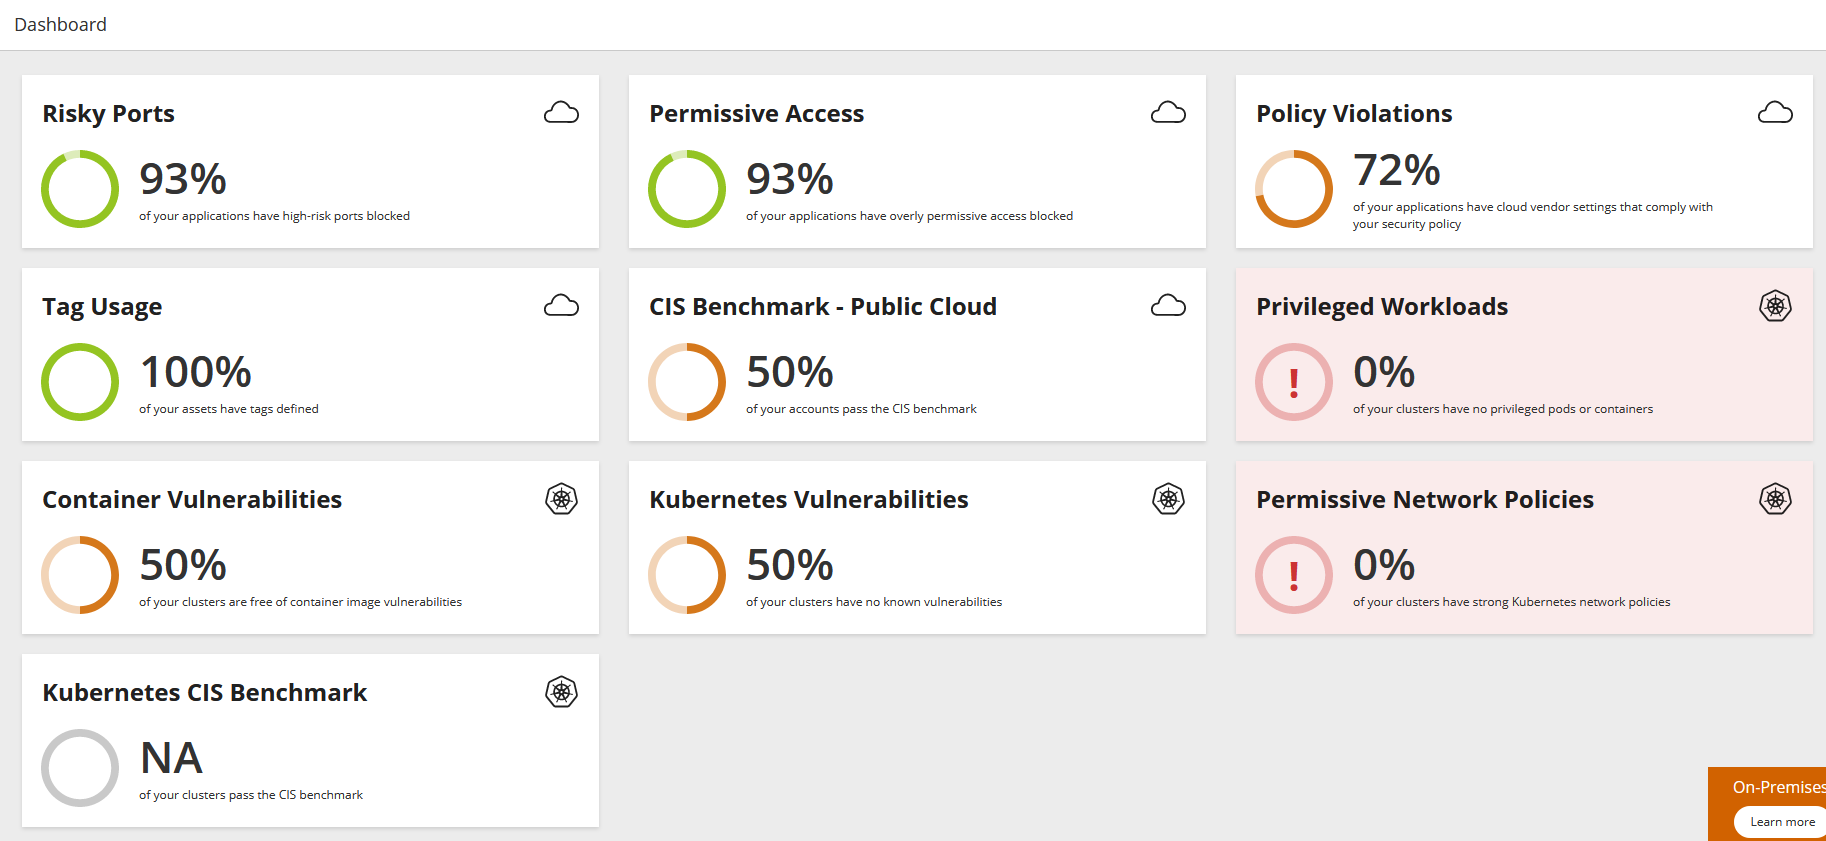
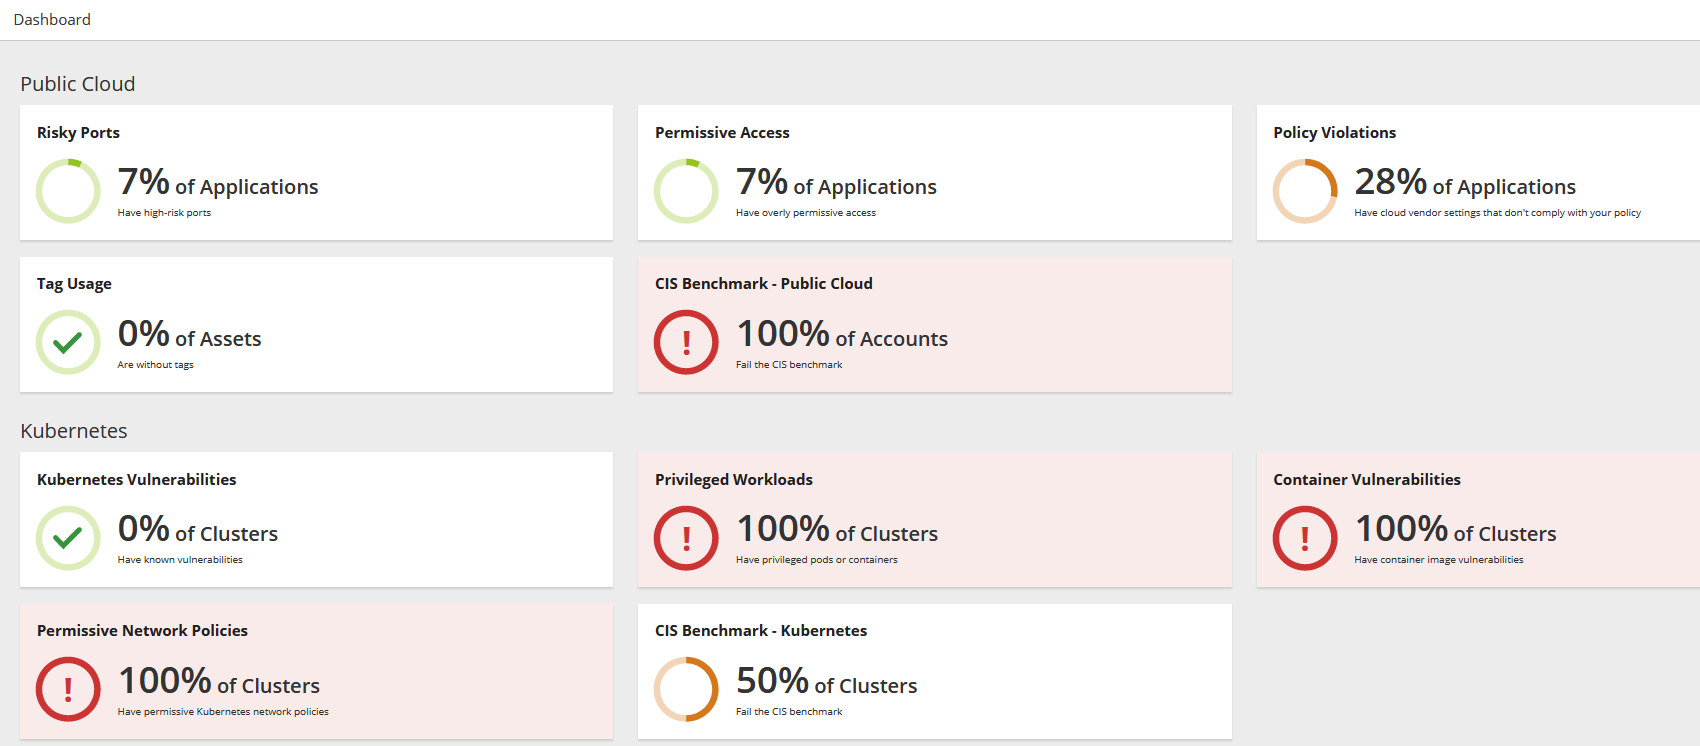
fix / dev / remove egress, change dashboard

diff --git a/Content/SecureCloud/Dashboard.htm b/Content/SecureCloud/Dashboard.htm
@@ -22,15 +22,16 @@
         <p class="h3"><a name="publiccloud"></a>Public Cloud Detail</p>
         <p>Click on a <MadCap:variable name="local.Widget" /> to drill down to the relevant detail.</p>
         <p class="h4">Risky Ports</p>
-        <p>The Risky Ports <MadCap:variable name="local.Widget" /> shows the state of your public cloud environment with respect to high-risk ports - the fewer   high-risk ports you have, the higher the percentage. Click on the <MadCap:variable name="local.Widget" /> to display all <a href="CloudRiskyPorts-by-App.htm">applications</a> that allow access through these ports.</p>
+        <p>The Risky Ports <MadCap:variable name="local.Widget" /> <MadCap:snippetText src="Risk_Posed.flsnp" /> high-risk ports, <MadCap:snippetText src="PercentageOfApplications.flsnp" />.  Click on the <MadCap:variable name="local.Widget" /> to display <MadCap:xref href="CloudRiskyPorts-by-App.htm">[%=local.RiskyPorts (heading)%] by Application</MadCap:xref>.</p>
         <p style="font-weight: bold;">What are risky ports? </p>
         <MadCap:snippetBlock src="WhatIsRiskyPorts.flsnp" />
         <p><span class="SpecialBold">Recommended best practice:</span>&#160;</p>
         <ul>
             <li>In your cloud account security definitions, do not allow ingress from any of the ports listed above. </li>
         </ul>
-        <p class="h4">Permissive Access</p>
-        <p>The Permissive access <MadCap:variable name="local.Widget" /> shows the compliance score of your public cloud environment with respect to overly permissive ingress access. The fewer   instances of permissive access you have, the higher the compliance score. Click on the <MadCap:variable name="local.Widget" /> to display all <a href="CloudPermissiveAccess-by-App.htm">applications with permissive access</a>. </p>
+        <p class="h4"><MadCap:variable name="local.PermissiveAccess" />
+        </p>
+        <p>The <MadCap:variable name="local.PermissiveAccess" /> <MadCap:variable name="local.Widget" /> <MadCap:snippetText src="Risk_Posed.flsnp" /> overly permissive ingress access, <MadCap:snippetText src="PercentageOfApplications.flsnp" />. Click on the <MadCap:variable name="local.Widget" /> to display <MadCap:xref href="CloudPermissiveAccess-by-App.htm">[%=local.PermissiveAccess%] by Application</MadCap:xref>. </p>
         <p style="font-weight: bold;">What is permissive access? </p>
         <MadCap:snippetBlock src="WhatIsPermissiveAccess.flsnp" />
         <p><span class="SpecialBold">Recommended best practice:</span>&#160;</p>
@@ -38,7 +39,7 @@
             <li>In your cloud account security definitions, avoid the use of unlimited ranges; allow traffic to assets only through well-defined ports and IP addresses.</li>
         </ul>
         <p class="h4">Policy Violations</p>
-        <p>The policy violations <MadCap:variable name="local.Widget" /> shows the compliance score of your public cloud environment with respect to  your security policy. The closer your cloud vendor security definitions match your <MadCap:variable name="local.ProductName" /> policy, the higher the compliance score. Click on the <MadCap:variable name="local.Widget" /> to display all <a href="CloudPolicyViolations-by-App.htm">applications  with policy violations</a>.</p>
+        <p>The policy violations <MadCap:variable name="local.Widget" /> <MadCap:snippetText src="Risk_Posed.flsnp" /> your cloud vendor security definitions being out of line with your security policy, <MadCap:snippetText src="PercentageOfApplications.flsnp" />. Click on the <MadCap:variable name="local.Widget" /> to display all <MadCap:xref href="CloudPolicyViolations-by-App.htm">[%=local.PolicyViolations%] by Application</MadCap:xref>.</p>
         <p><span class="SpecialBold">What is a policy violation?</span>
         </p>
         <ul>
@@ -50,8 +51,9 @@
             <li>Review your applications and assets and <a href="../PublicCloud/Assets.htm#Resolve">resolve</a> all violations.</li>
         </ul>
         <p class="h4">Tag Usage</p>
-        <p>The Tag Usage <MadCap:variable name="local.Widget" /> shows the compliance score of your public cloud environment  with respect to usage of tags on your assets. The fewer assets you have without tags, the higher the compliance score. Click on the <MadCap:variable name="local.Widget" /> to display all <a href="CloudTagUsage-by-Asset.htm">assets that  have no tags</a>.</p>
-        <p>What are Tags?</p>
+        <p>The Tag Usage <MadCap:variable name="local.Widget" /> <MadCap:snippetText src="Risk_Posed.flsnp" /> assets without tags, and displays the percentage of your <MadCap:variable name="local.asset" />s exposed to this risk. Click on the <MadCap:variable name="local.Widget" /> to display all <a href="CloudTagUsage-by-Asset.htm">assets that  have no tags</a>.</p>
+        <p><span class="SpecialBold">What are Tags?</span>
+        </p>
         <ul>
             <li>
                 <MadCap:snippetText src="../PublicCloud/WhatIsTags.flsnp" />
@@ -63,11 +65,12 @@
         </ul>
         <p class="h4"><MadCap:variable name="local.CISBenchmarkPublicCloud" />
         </p>
+        <p>The <MadCap:variable name="local.CISBenchmarkPublicCloud" /> <MadCap:variable name="local.Widget" /> <MadCap:snippetText src="Risk_Posed.flsnp" /> your cloud vendor security definitions that are not compliant with the <MadCap:variable name="local.CISBenchmarkPublicCloud" />, and displays the percentage of your cloud accounts that failed. </p>
         <MadCap:snippetBlock src="WhatIsCISPublicCloud.flsnp" />
-        <p>The dashboard score is calculated based on the number of your monitored public cloud accounts that pass all the checks. Only accounts that pass all their checks are considered as passing the CIS benchmark. Click on the <MadCap:variable name="local.Widget" /> to display your <a href="CloudCIS-by-Account.htm">monitored cloud accounts</a> and their CIS status.</p>
+        <p>The dashboard score is calculated based on the number of your monitored public cloud accounts that pass all the <MadCap:variable name="local.CIStest" />s. Only accounts that pass all their <MadCap:variable name="local.CIStest" />s are considered as passing the CIS benchmark. Click on the <MadCap:variable name="local.Widget" /> to display your <a href="CloudCIS-by-Account.htm">monitored cloud accounts</a> and their CIS status.</p>
         <p class="h3"><a name="kubernetes"></a><MadCap:variable name="local.Kubernetes" /> Risks</p>
         <p class="h4">Kubernetes Vulnerabilities</p>
-        <p class="normal">The Kubernetes Vulnerabilities <MadCap:variable name="local.Widget" /> shows the compliance score of your Kubernetes clusters with respect to known vulnerabilities in your Kubernetes environment - the fewer vulnerabilities you have, the higher the compliance score. Click on the <MadCap:variable name="local.Widget" /> to display all <a href="K8sVulnerabilities-by-Cluster.htm">clusters containing known Kubernetes vulnerabilities</a>. </p>
+        <p class="normal">The Kubernetes Vulnerabilities <MadCap:variable name="local.Widget" /> <MadCap:snippetText src="Risk_Posed_k8s.flsnp" /> known vulnerabilities in your Kubernetes environment, <MadCap:snippetText src="PercentageOfClusters.flsnp" />. Click on the <MadCap:variable name="local.Widget" /> to display all <a href="K8sVulnerabilities-by-Cluster.htm">clusters containing known Kubernetes vulnerabilities</a>. </p>
         <p class="normal" style="font-weight: bold;">What are Kubernetes Vulnerabilities?</p>
         <ul>
             <li>
@@ -79,7 +82,7 @@
             <li>Regularly review the Kubernetes vulnerabilities in your environment and make sure you have the latest patches in place.</li>
         </ul>
         <p class="h4">Privileged Workloads</p>
-        <p>The Privileged Workload <MadCap:variable name="local.Widget" /> shows the compliance score of your Kubernetes clusters with respect to privileged workloads - the fewer  privileged workloads you have, the higher the compliance score. Click on the <MadCap:variable name="local.Widget" /> to display all <a href="K8sPrivilegedWorkloads-by-Cluster.htm">clusters containing privileged workloads</a>.</p>
+        <p>The <MadCap:variable name="local.PrivilegedWorkloads" /> <MadCap:variable name="local.Widget" /> <MadCap:snippetText src="Risk_Posed_k8s.flsnp" /> privileged workloads, <MadCap:snippetText src="PercentageOfClusters.flsnp" />. Click on the <MadCap:variable name="local.Widget" /> to display all <a href="K8sPrivilegedWorkloads-by-Cluster.htm">clusters containing privileged workloads</a>.</p>
         <p style="font-weight: bold;">
             <p class="normal" style="font-weight: bold;">What are Privileged Workloads?</p>
             <MadCap:snippetBlock src="../Kubernetes/WhatIsK8sPrivilegedWorkload.flsnp" />
@@ -90,7 +93,7 @@
         </ul>
         <p class="h4"><MadCap:variable name="local.ContainerVulnerabilities" />
         </p>
-        <p>The <MadCap:variable name="local.ContainerVulnerabilities" /> <MadCap:variable name="local.Widget" /> shows the compliance score of your Kubernetes clusters with respect to the  vulnerabilities found in your containers. The fewer the <MadCap:variable name="local.containervulnerabilities" />, the higher the compliance score. Click on the <MadCap:variable name="local.Widget" /> to display all clusters with <a href="K8sContainerVulnerabilities-by-Cluster.htm"><MadCap:variable name="local.Containervulnerabilities" /></a>. </p>
+        <p>The <MadCap:variable name="local.ContainerVulnerabilities" /> <MadCap:variable name="local.Widget" /> <MadCap:snippetText src="Risk_Posed_k8s.flsnp" /> the  vulnerabilities found in your containers, <MadCap:snippetText src="PercentageOfClusters.flsnp" />. Click on the <MadCap:variable name="local.Widget" /> to display all clusters with <a href="K8sContainerVulnerabilities-by-Cluster.htm"><MadCap:variable name="local.Containervulnerabilities" /></a>. </p>
         <p style="font-weight: bold;">What are container vulnerabilities?</p>
         <ul>
             <li>
@@ -101,8 +104,9 @@
         <ul>
             <li>Scan containers for vulnerabilities  and address issues before deploying them.</li>
         </ul>
-        <p class="h4">Permissive Network Policies</p>
-        <p>The <MadCap:variable name="local.PermissivePolicies" /> <MadCap:variable name="local.Widget" /> shows the state of your Kubernetes clusters with respect to  permissive Kubernetes network policies. The fewer clusters you have with <MadCap:variable name="local.permissivepolicies" />, the higher the percentage. Click on the <MadCap:variable name="local.Widget" /> to display all clusters that have <MadCap:variable name="local.permissivepolicies" />.</p>
+        <p class="h4"><MadCap:variable name="local.PermissivePolicies" />
+        </p>
+        <p>The <MadCap:variable name="local.PermissivePolicies" /> <MadCap:variable name="local.Widget" /><![CDATA[   ]]><MadCap:snippetText src="Risk_Posed_k8s.flsnp" /> overly permissive Kubernetes network policies, <MadCap:snippetText src="PercentageOfClusters.flsnp" />. Click on the <MadCap:variable name="local.Widget" /> to display all clusters that have <MadCap:variable name="local.permissivepolicies" />.</p>
         <p style="font-weight: bold;">What are <MadCap:variable name="local.PermissivePolicies" />?</p>
         <p>
             <MadCap:snippetBlock src="WhatIsK8sPermissivePolicies.flsnp" />
@@ -113,9 +117,10 @@
         </ul>
         <p class="h4"><MadCap:variable name="local.CISBenchmarkKubernetes" />
         </p>
+        <p class="FrameFooterText">The <MadCap:variable name="local.CISBenchmarkKubernetes" /> <MadCap:variable name="local.Widget" /> <MadCap:snippetText src="Risk_Posed_k8s.flsnp" /> your cluster security definitions that are not compliant with the <MadCap:variable name="local.CISBenchmarkKubernetes" />, <MadCap:snippetText src="PercentageOfClusters.flsnp" />. </p>
         <MadCap:snippetBlock src="WhatIsCISk8s.flsnp">
         </MadCap:snippetBlock>
-        <p>The dashboard score is calculated based on the number of your monitored <MadCap:variable name="local.project" />s that pass all the checks. Only accounts that pass all their checks are considered as passing the CIS benchmark. Click on the <MadCap:variable name="local.Widget" /> to display your <a href="k8sCIS-by-Cluster.htm">monitored clusters</a> and their CIS status.</p>
+        <p>The dashboard score is calculated based on the number of your monitored <MadCap:variable name="local.project" />s that pass all the <MadCap:variable name="local.CIStest" />s. Only clusters that pass all their <MadCap:variable name="local.CIStest" />s.are considered as passing the CIS benchmark. Click on the <MadCap:variable name="local.Widget" /> to display your <a href="k8sCIS-by-Cluster.htm">monitored clusters</a> and their CIS status.</p>
         <MadCap:snippetBlock src="../Resources/TopicTemplates/Collateral/H2_GetHere.flsnp">
         </MadCap:snippetBlock>
         <MadCap:snippetBlock src="../Resources/Snippets/GetHere_Dashboard.flsnp" />

diff --git a/Content/Kubernetes/Enforcement.htm b/Content/Kubernetes/Enforcement.htm
@@ -14,7 +14,7 @@
                 <p>For every <MadCap:variable name="local.Kubernetes" /> service that appears in "Allowed Connections", as source or destination, will have a corresponding <MadCap:variable name="local.Kubernetes" /> policy. </p>
             </li>
             <li>
-                <p>Each service policy consists of all ingress and egress connections for the service.</p>
+                <p>Each service policy consists of all ingress <MadCap:conditionalText MadCap:conditions="General.Exclude">and egress </MadCap:conditionalText>connections for the service.</p>
             </li>
             <li>
                 <p>A cleanup policy will be added for every namespace.</p>
@@ -25,7 +25,7 @@
             <li>
                 <p>For discovered connections coming from outside the cluster (ingress via a load balancer), the Kubernetes network policies will allow traffic from any source IP.</p>
             </li>
-            <li>
+            <li MadCap:conditions="General.Exclude">
                 <p>Where the service has egress to external end-points, the egress policy will contain the IPs that were discovered by <MadCap:variable name="local-orca.Product_S" /> as "ipBlock/cidr" entities with a comment describing the origin:</p><pre xml:space="preserve">
 egress:
  - to:
@@ -38,7 +38,7 @@ egress:
             </li>
         </ul>
         <ul>
-            <li>
+            <li MadCap:conditions="General.Exclude">
                 <p>External services with many IPs (like cloudimageupdate-pa.googleapis.com) may only be partially covered because <MadCap:variable name="local-orca.Product_S" /> could only monitor IP's accessed from the cluster and there may be other IPs not yet seen. In this case, you can allow for any IP by creating a manual rule allowing access from the relevant namespace to the domain name; the policy will then be generated with egress to 0.0.0.0/0: Example:</p>
                 <p>
                     <img src="../Kubernetes-Images/Screen_connection_egress_to_domain.png">
@@ -70,7 +70,7 @@ ingress:
             <img src="../Kubernetes-Images/yaml_network_policies.png" class="ThumbnailPopup">
             </img>
         </p>
-        <p>See full <a href="KubernetesNetworkPolicyExample.txt">Example</a>. </p>
+        <p>See full <a href="KubernetesNetworkPolicyExample_Excl_Egress.txt">Example</a>. </p>
         <p class="h3">DNS</p>
         <p>Enforced when <span class="StatusOrValue">Policy Mode</span> is set to <span class="StatusOrValue">Enforce</span>.</p>
         <p>At installation time, the  DNS&#160;Plugin is installed in the Kubernetes DNS&#160;pod, which then acts as a proxy, processing all DNS queries before passing them to the Kubernetes DNS. When <MadCap:variable name="local-orca.Product_S" /> is set to <span class="StatusOrValue">Enforce</span>, any DNS query that is not defined in <MadCap:variable name="local-orca.Product_S" /> as an allowed connection returns an NX domain (non-existent domain). This enforcement method is not active when <MadCap:variable name="local-orca.Product_S" /> is set to <span class="StatusOrValue">Learn</span>.</p>

diff --git a/Content/SecureCloud/CloudCIS-by-Test.htm b/Content/SecureCloud/CloudCIS-by-Test.htm
@@ -3,17 +3,17 @@
     <head>
     </head>
     <body>
-        <h1><MadCap:variable name="local.CISBenchmarkPublicCloud" /> by <MadCap:variable name="local.CISRecommendation" /></h1>
+        <h1><MadCap:variable name="local.CISBenchmarkPublicCloud" /> by <MadCap:variable name="local.CISTest" /></h1>
         <MadCap:snippetBlock src="../Resources/TopicTemplates/Collateral/UL_Contents.flsnp" />
         <MadCap:snippetBlock src="../Resources/TopicTemplates/Collateral/H2_Overview.flsnp" />
-        <p>This screen displays <MadCap:variable name="local.CISBenchmarkPublicCloud" /> <MadCap:variable name="local.CISrecommendation" />s and their current audit status for a selected cloud account. </p>
+        <p>This screen displays <MadCap:variable name="local.CISBenchmarkPublicCloud" /> <MadCap:variable name="local.CIStest" />s and their current audit status for a selected cloud account. </p>
         <p class="h3">What is the <MadCap:variable name="local.CISBenchmarkPublicCloud" />?</p>
         <MadCap:snippetBlock src="WhatIsCISPublicCloud.flsnp" />
         <MadCap:snippetBlock src="../Resources/TopicTemplates/Collateral/H3_SeeHere.flsnp" />
         <p>
             <img src="../SecureCloud-Images/Screen_Cloud_CIS_by_Recommendation.png" class="ThumbnailPopup" />
         </p>
-        <p class="normal">The main screen section is a list of accounts showing:</p>
+        <p class="normal">The main screen section is a list of test showing:</p>
         <ul>
             <li>
                 <p><span class="ScreenObject">Paragraph</span>. As listed in the <MadCap:variable name="local.CISBenchmarkPublicCloud" /> </p>

diff --git a/Content/SecureCloud/k8sCIS-by-Test.htm b/Content/SecureCloud/k8sCIS-by-Test.htm
@@ -3,10 +3,10 @@
     <head>
     </head>
     <body>
-        <h1><MadCap:variable name="local.CISBenchmarkKubernetes" /> by <MadCap:variable name="local.CISRecommendation" /></h1>
+        <h1><MadCap:variable name="local.CISBenchmarkKubernetes" /> by <MadCap:variable name="local.CISTest" /></h1>
         <MadCap:snippetBlock src="../Resources/TopicTemplates/Collateral/UL_Contents.flsnp" />
         <MadCap:snippetBlock src="../Resources/TopicTemplates/Collateral/H2_Overview.flsnp" />
-        <p>This screen displays <MadCap:variable name="local.CISBenchmarkKubernetes" /> <MadCap:variable name="local.CISrecommendation" />s and their current audit status for a selected <MadCap:variable name="local.project" />. </p>
+        <p>This screen displays <MadCap:variable name="local.CISBenchmarkKubernetes" /> <MadCap:variable name="local.CIStest" />s and their current audit status for a selected <MadCap:variable name="local.project" />. </p>
         <p class="h3">What is the <MadCap:variable name="local.CISBenchmarkKubernetes" />?</p>
         <MadCap:snippetBlock src="WhatIsCISk8s.flsnp" />
         <MadCap:snippetBlock src="../Resources/TopicTemplates/Collateral/H3_SeeHere.flsnp" />
